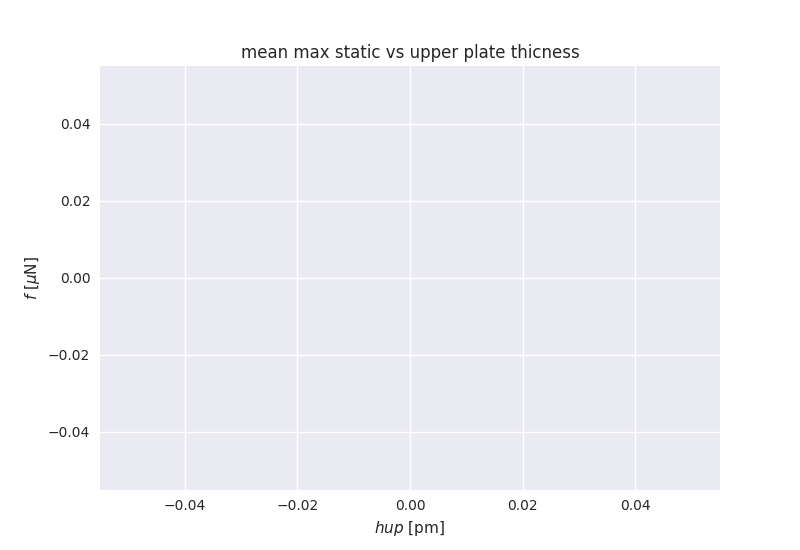
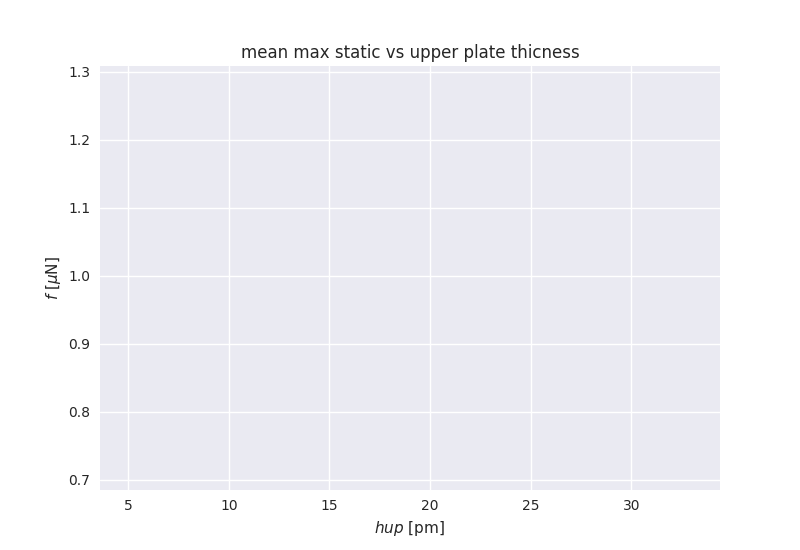
fig tweak

diff --git a/python/plot/plot_max_static.py b/python/plot/plot_max_static.py
@@ -29,7 +29,6 @@ def load_max_static(temp, vel, force, orientation, grid, template_lc, template_m
     for file in glob(ms_files):
         
         for seed in seeds:
-            print('seed ', seed)
             if str(seed) in str(file):
                 time, ms = loadtxt(file)
                 print('ms')
@@ -37,7 +36,7 @@ def load_max_static(temp, vel, force, orientation, grid, template_lc, template_m
                 ms_all.append(ms)
 
 
-    mean_static = mean(ms_all, axis=0)
+    mean_static = mean(ms_all)
 
     print(mean_static)
     return ms_all, mean_static
@@ -90,7 +89,7 @@ def plot_max_static_vs_thiccness():
    
     for i, seed in enumerate(seeds):
         ms_all, mean_static = load_max_static(temp, vel, force, orientation, grid, 
-                                              template_lc, template_ms, seeds) 
+                                              template_lc, template_ms, seed) 
         plt.plot(hup[i], mean_static)
         
     plt.xlabel(r"$hup$ [pm]")
